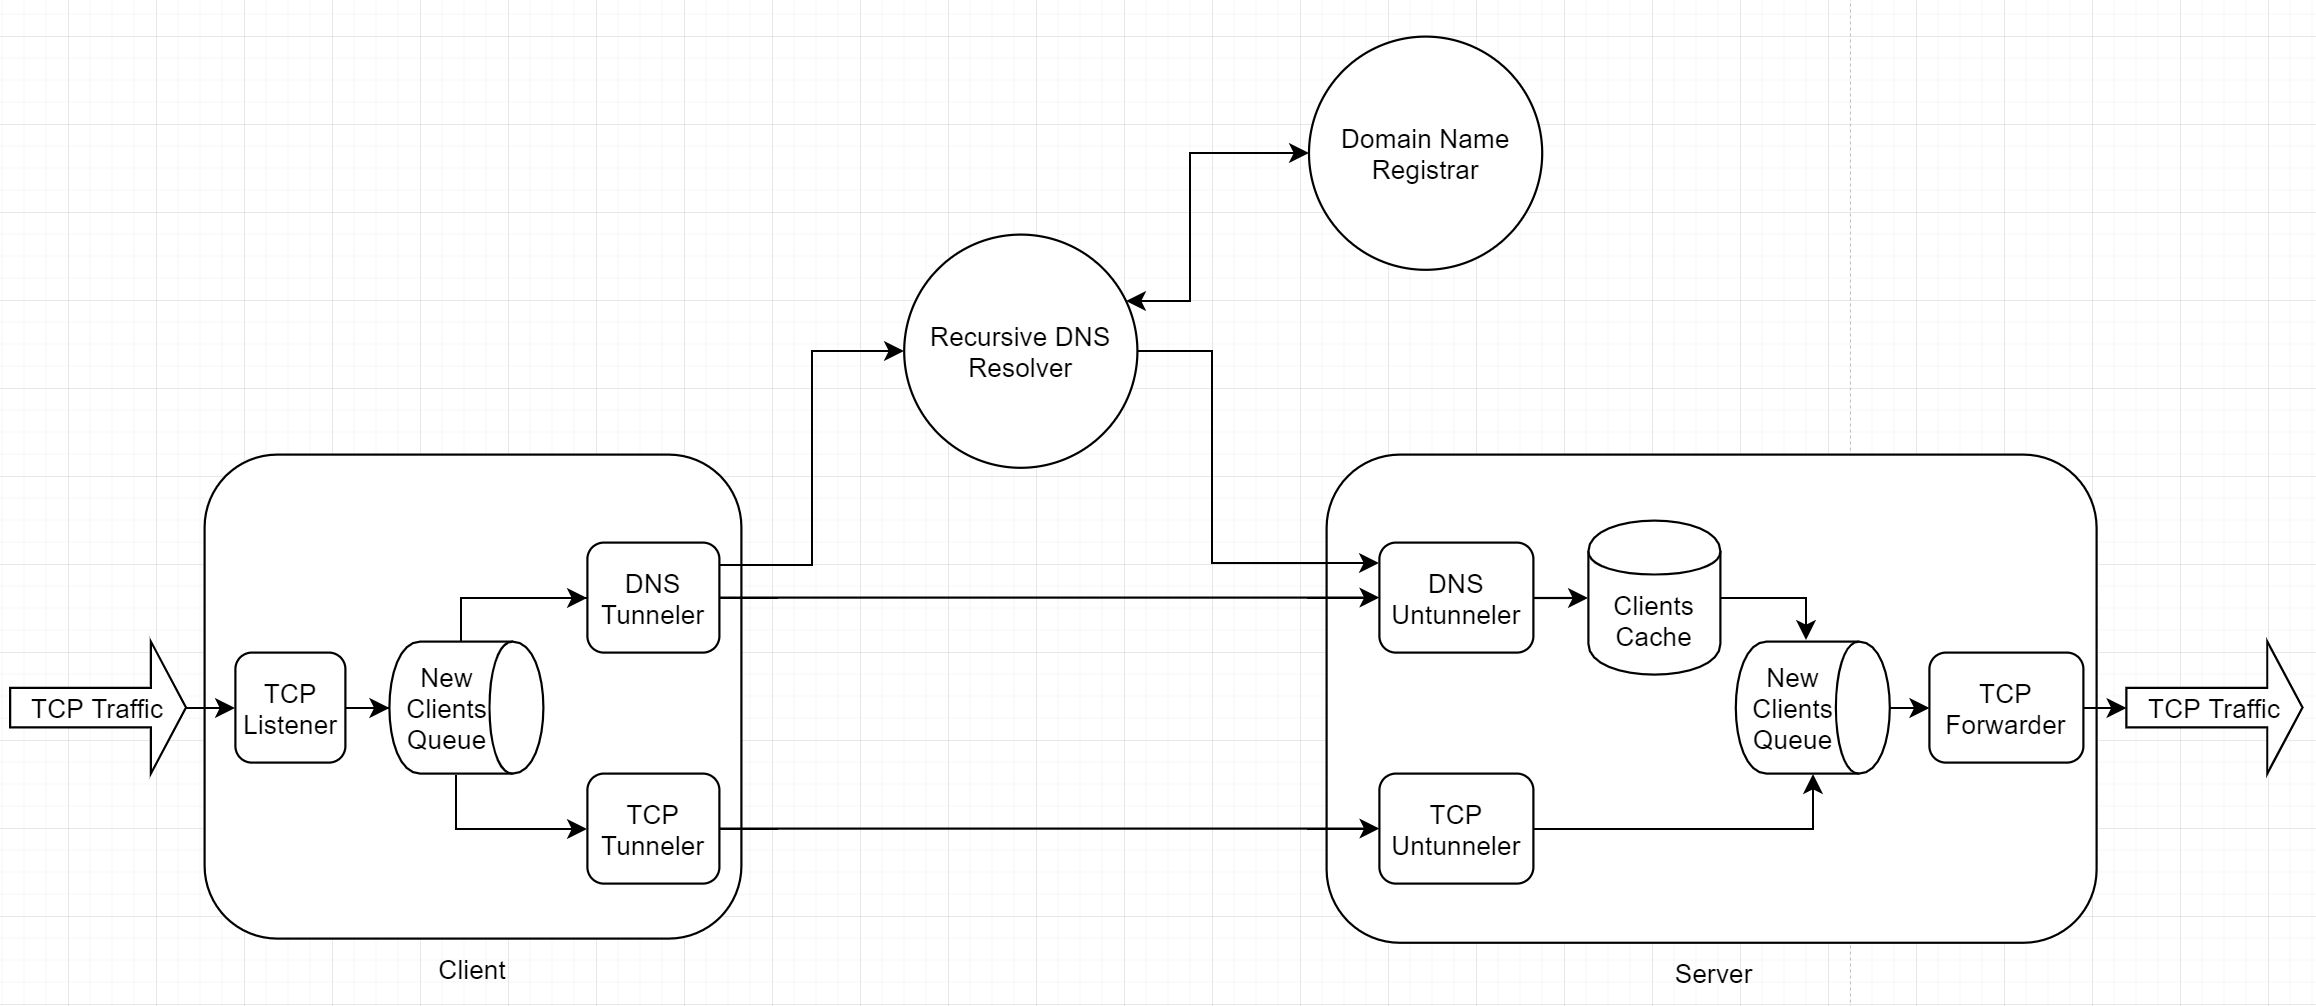
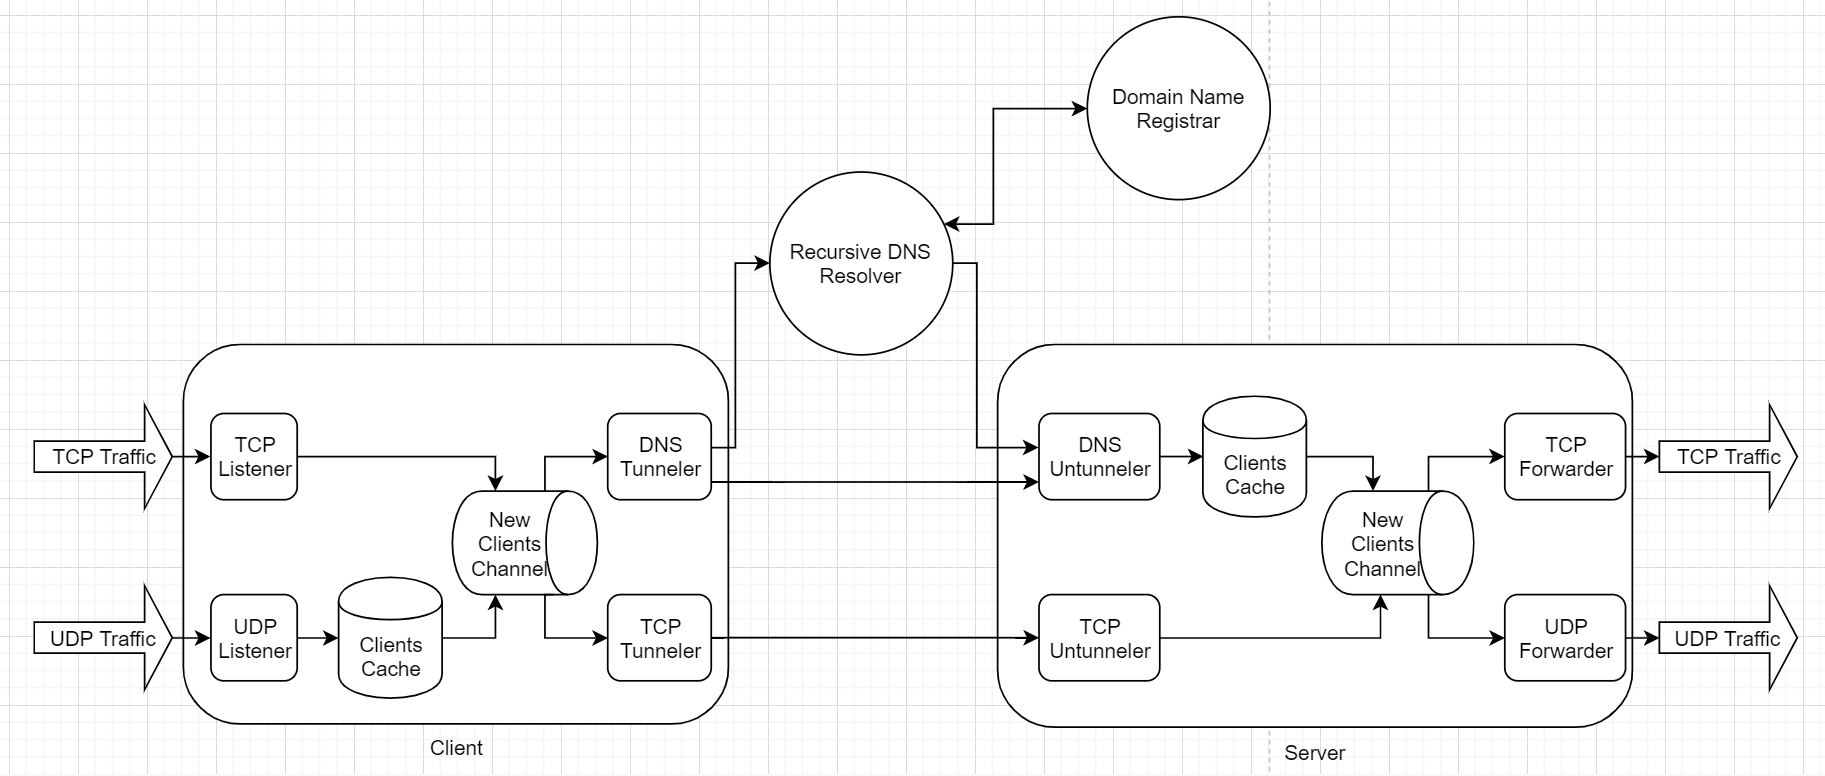
update docs for version 0.3.0

diff --git a/README.md b/README.md
@@ -1,9 +1,9 @@
 # Tunneler
-This repo contains client and server that allow you to tunnel TCP traffic via other network protocols.
+This repo contains client and server that allow you to tunnel TCP and UDP traffic over other network protocols.
 
 Currently, supported tunnels are:
-* DNS tunneling (authoritative DNS server or direct connection)
-* TCP proxy
+* DNS (authoritative DNS server or direct connection)
+* TCP
 
 Main tool is writen in Rust and end-to-end tests are written in Python.
 
@@ -26,14 +26,16 @@ There is also a [docker file](Dockerfile) if you prefer to build a local docker 
 docker run -e LOCAL_PORT=45301 \
            -e REMOTE_PORT=5201 \
            -e REMOTE_ADDRESS=localhost \
+           -e TUNNELED_TYPE=udp \
            --rm -p 45301:45301 ghcr.io/dlemel8/tunneler-server:latest tcp
 ```
 ### Option 2: locally compiled binary
 ```sh
 READ_TIMEOUT_IN_MILLISECONDS=100 \
 IDLE_CLIENT_TIMEOUT_IN_MILLISECONDS=30000 \
+TUNNELED_TYPE=tcp \
 LOG_LEVEL=debug \
-./target/debug/client 127.0.0.1 53 dns
+./target/debug/client 1.1.1.1 53 dns
 ```
 Run docker image or compiled binary with `--help` for more information
 
@@ -47,13 +49,28 @@ You can run each example locally or deploy it using Terraform and Ansible. See m
 
 ## Architecture
 ![Architecture](images/architecture.jpg?raw=true "Architecture")
+Each executable contains 2 components communicating via a channel of client streams (a tuple of bytes reader and writer):
+* Client Listener binds a socket and convert incoming and outgoing traffic to a new stream.
+* Client Tunneler translate stream reader and writer to the tunnel protocol.
+* Server Untunneler binds a socket according to tunnel protocol and translate tunneled traffic back to original stream.
+* Server Forwarder converts stream writer and reader back to traffic. 
+
+TCP based traffic is trivially converted to stream. UDP based traffic conversion depends on the tunnel protocol. 
+
+UDP based traffic also need a way to identify existing clients to continue their sessions. The solution is an in-memory 
+Clients Cache that maps an identifier of the client to its stream.
 
 ## Protocols
+### Tunneled UDP
+In order to convert UDP traffic to a stream, a 2 bytes size header (in big endian) precedes each packet payload.
+
+UDP Listener uses incoming packet peer address as a key to its Clients Cache. 
+
 ### DNS tunneling
 We have a few challenges here:
-* DNS Untunneler translates UDP packets to TCP, so we need a way to identify existing clients to continue their sessions.
 * DNS payload must be alphanumeric.
 * Every message requires a response before we can send next message.
+* Each DNS query uses randomized source port and transaction ID, so we can't use them as Client Cache key.
 
 To solve those challenges, each client session starts with generating a random Client ID. Client reads data to tunnel 
 and run it via a pipeline of encoders: 
@@ -68,16 +85,11 @@ IP from your domain name registrar and forward the request to your IP. Another o
 traffic analyzer) is configuring client to send the request directly to your IP (on port UDP/53 or any other port server 
 is listening to).
 
-Server decodes data (ignoring any non client traffic) and get or create Client ID in an in-memory Clients Cache. Clients Cache maps Client ID 
-into in-memory reader and writer. Original data is then forwarded using TCP to target service.
+Server decodes data (ignoring any non client traffic) and uses Client ID as a key to its Clients Cache.
 
 In order to handle large server responses and empty TCP ACKs, read timeout is used in both client and server. If read 
 timeout is expired, empty message will be sent. Both client and server use idle timeout to stop forwarding and cleanup 
 local resources.
-
-### TCP proxy
-Currently, only TCP listener and forwarder are supported, so nothing is special here.
-
 
 ## Testing
 ### Run Unit Tests
